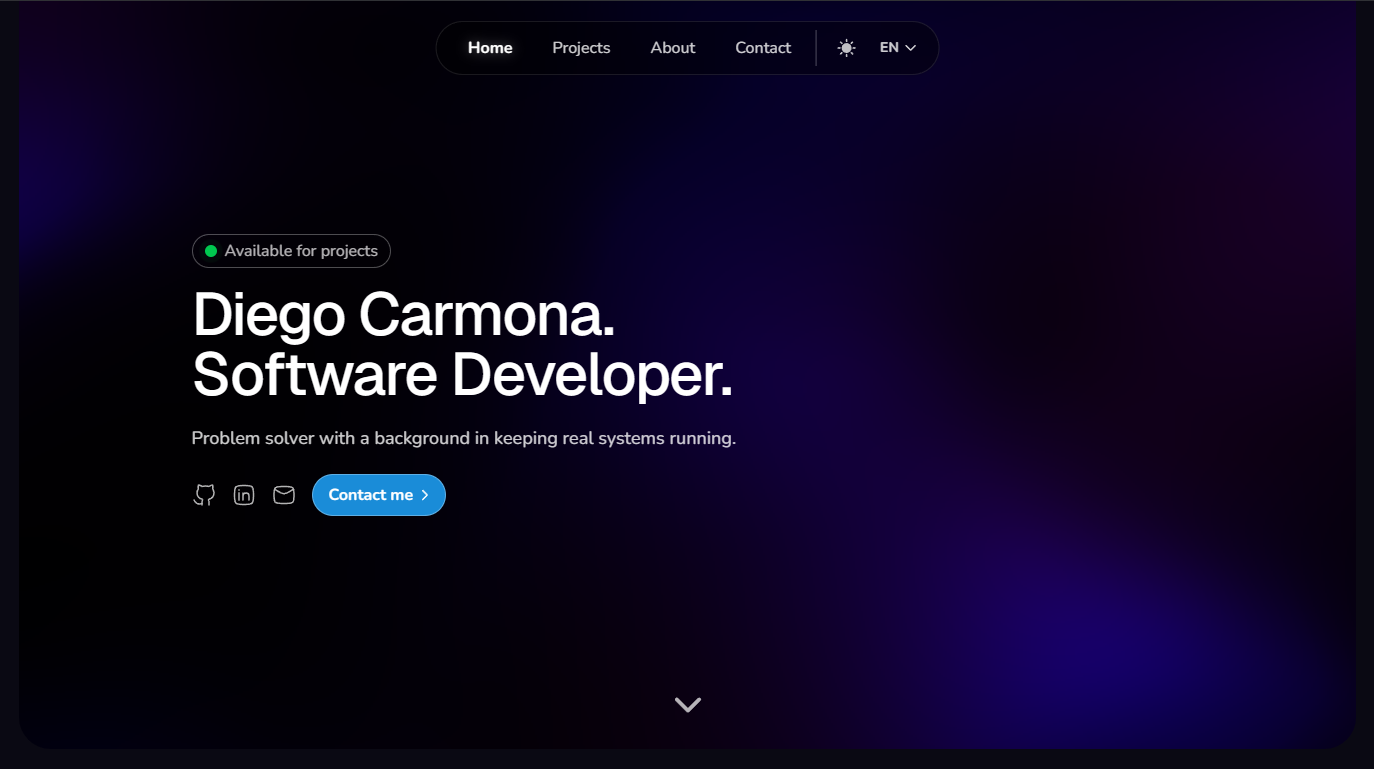
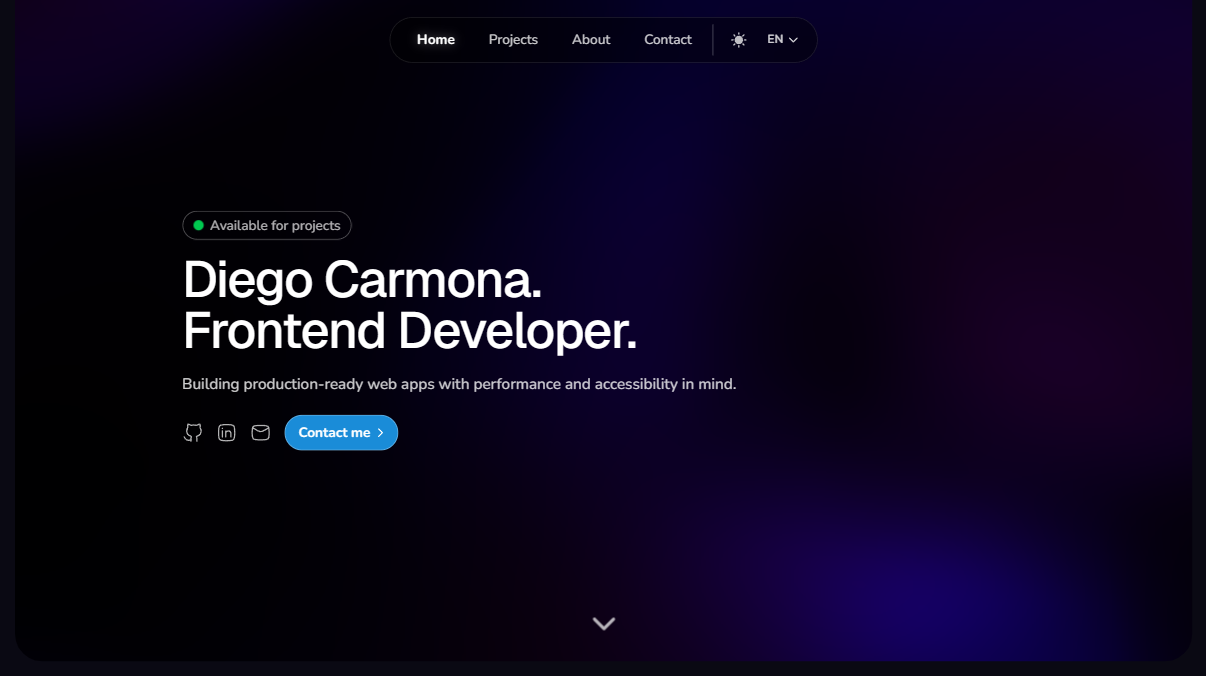
docs: update performance metrics and SEO results in README

diff --git a/README.md b/README.md
@@ -1,9 +1,9 @@
 <h1 >
   <img src="./src/app/favicon.ico" width="28" style="vertical-align: -4px; margin-right:8px;" />
-  Diego Carmona — Software Developer Portfolio
+  Diego Carmona — Frontend Developer Portfolio
 </h1>
 
-A production-grade, high-performance portfolio built as a real-world web product. Designed with a strong focus on **performance, accessibility, SEO, and long-term maintainability**, while showcasing modern full-stack engineering practices.
+A production-grade, high-performance portfolio built as a real-world web product. Designed with a strong focus on **performance, accessibility, SEO, and long-term maintainability**, while showcasing modern frontend engineering and real-world architecture.
 
 🔗 **Live:** https://diegocarmona.me  
 📂 **Repository:** https://github.com/diegocarmn/portfolio
@@ -34,18 +34,23 @@ Measured in production:
 - Best Practices: 100
 - SEO: 100
 
+<p align="center">
+  <img src="./public/screenshots/lighthouse.png" alt="Lighthouse Score" width="1000"/>
+</p>
+
 **Real User Metrics (Vercel Speed Insights)**
 
-- Real Experience Score: **99**
-- First Contentful Paint: **~1.35s**
-- Largest Contentful Paint: **~2.08s**
-- Interaction to Next Paint: **~80ms**
+- Real Experience Score: **100**
+- First Contentful Paint: **0.34s**
+- Largest Contentful Paint: **1.03s**
+- Interaction to Next Paint: **48ms**
 - Cumulative Layout Shift: **0**
+- First Input Delay: **2ms**
+- Time to First Byte: **0.05s**
 
 <p align="center">
   <img src="./public/screenshots/speed-insights.png" alt="Vercel Speed Insights" width="1000"/>
 </p>
-
 
 - Performance optimized with image compression and modern formats
 - Accessibility-first design with semantic HTML and ARIA support
@@ -55,10 +60,10 @@ It is intentionally built as a **single-page application with rich interactions*
 
 ## ✨ Key Highlights
 - Lighthouse 99/100 performance score
+- Real Experience Score 100 (Vercel Speed Insights)
 - Production deployment with Vercel
 - Internationalization (EN / PT-BR)
 - Structured data and full SEO architecture
-
 
 ## 🧰 Tech Stack
 
@@ -132,10 +137,7 @@ SEO in this project is treated as **a core part of the system design**.
 ### 📈 Real-World Result
 
 - Indexed within hours of Search Console verification
-- Ranking #1 for branded searches such as:
-  - name + role
-  - name + tech stack
-  - name + location
+- Reached 15+ organic clicks in the first 28 days (Google Search Console)
 
 This validates the architecture: strong SEO fundamentals, correct semantics, and fast indexing without sacrificing UX.
 
@@ -280,7 +282,7 @@ See the [`LICENSE`](./LICENSE.md) file for full details.
 
 ## 👤 Author
 
-**Diego Carmona** - Software Developer
+**Diego Carmona** - Frontend Developer
 
 - 🔗 [LinkedIn](https://linkedin.com/in/diegocarmn)
 - 🔗 [GitHub](https://github.com/diegocarmn)
